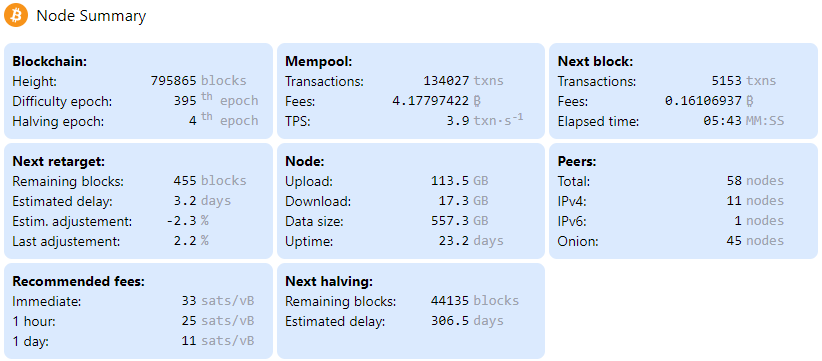
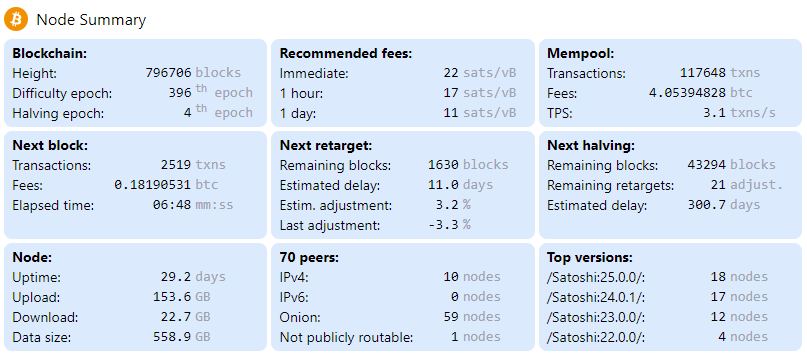
Modified displayed data
- added remaining retargets to next halving card
- added not_publicly_routable to peers card
- moved recommended fees and next halving cards
- added peers versions card

Changed region(s): [[0.0, 0.0, 1.0, 1.0]]

diff --git a/lib/load-summary.js b/lib/load-summary.js
@@ -5,7 +5,9 @@ const fs = require('fs/promises')
 
 const difficultyAdjustmentBlockCount = 2016
 const targetBlockTimeSeconds = 600
-const targetBlocksPerDay = 144 // 24 hours, 6 blocks per hour
+// 24 hours, 6 blocks per hour
+const targetBlocksPerDay = 144
+// Remark: this isn't a multiple of 2016
 const halvingBlockCount = 210000
 
 // Call one specific Bitcoin RPC endpoint
@@ -83,6 +85,10 @@ async function loadSummaryCached() {
                     const onion = rpcResult.filter(i => i.network == "onion").length
                     const not_publicly_routable = rpcResult.filter(i => i.network == "not_publicly_routable").length
                     res.peers = {total, ipv4, ipv6, onion, not_publicly_routable}
+                    let sub_versions = rpcResult.reduce((h, p) => {h[p.subver] = (h[p.subver] ?? 0) + 1; return h;}, {})
+                    sub_versions = Object.entries(sub_versions)
+                    sub_versions.sort((a, b) => b[1] - a[1])
+                    res.sub_versions = sub_versions
                     break
                 case "getblocktemplate":
                     const fees = rpcResult.transactions.reduce((t, i) => t + i.fee, 0)/1E8
@@ -119,6 +125,7 @@ async function loadSummaryCached() {
             rpcResult = rpcResult.result
             switch (method) {
                 case "getblock":
+                    res.time = rpcResult.time
                     res.time_since_last_bloc = Math.round(Date.now()/1000) - rpcResult.time
                     break
                 case "getblockhash":
@@ -161,32 +168,41 @@ async function loadSummaryCached() {
                     // console.debug(rpcResult)
             }
         }
-        let blockCount = res.headers - diffEpochFirstBlockHeight
+        const blocksSinceRetarget = res.headers - diffEpochFirstBlockHeight
         let diffAdjPercent = 0
-        if (blockCount != 0) {
-            const dt = new Date().getTime() / 1000 - res.diff_epoch_first_block_time;
-            const predictedBlockCount = dt / targetBlockTimeSeconds;
-            let blockRatioPercent = 100 * (blockCount / predictedBlockCount);
+        let uncappedBlockRatio = 1
+        if (blocksSinceRetarget != 0) {
+            const dt = res.time - res.diff_epoch_first_block_time
+            const predictedBlockCount = dt / targetBlockTimeSeconds
+            uncappedBlockRatio = blocksSinceRetarget / predictedBlockCount
+            let blockRatioPercent = 100 * uncappedBlockRatio
             if (blockRatioPercent > 400) {
-                blockRatioPercent = 400;
+                blockRatioPercent = 400
             }
             if (blockRatioPercent < 25) {
-                blockRatioPercent = 25;
+                blockRatioPercent = 25
             }
-            diffAdjPercent = precision3(blockRatioPercent - 100);
+            diffAdjPercent = precision3(blockRatioPercent - 100)
         }
-        const blocksToRetarget = difficultyAdjustmentBlockCount - blockCount
-        const daysToRetarget = precision3(blocksToRetarget/targetBlocksPerDay)
-        const halving_epoch_first_block_height = halvingBlockCount * (res.halving_epoch - 1)
-        blockCount = res.headers - halving_epoch_first_block_height
-        const blocksToHalving = halvingBlockCount - blockCount
+        const blocksToRetarget = difficultyAdjustmentBlockCount - blocksSinceRetarget
+        const daysToRetarget = precision3(blocksToRetarget/targetBlocksPerDay/uncappedBlockRatio)
+        const halvingFirstBlockHeight = halvingBlockCount * (res.halving_epoch - 1)
+        // From 0 to 209999
+        const blocksSinceHalving = res.headers - halvingFirstBlockHeight
+        // From 210000 to 1
+        const blocksToHalving = halvingBlockCount - blocksSinceHalving
+        const nextHalvingFirstBlockHeight = halvingBlockCount * res.halving_epoch
+        const retargetBeforeNextHalvingHeight = Math.floor(nextHalvingFirstBlockHeight / difficultyAdjustmentBlockCount) * difficultyAdjustmentBlockCount
+        const nextRetargetHeight = res.headers + blocksToRetarget
+        // From 104 to 0 (remark: next retarget can occur after the halving)
+        const retargetsToHalving = 1 + (retargetBeforeNextHalvingHeight - nextRetargetHeight) / difficultyAdjustmentBlockCount
         const daysToHalving = precision3(blocksToHalving/targetBlocksPerDay)
         const prevDiffAdj = (res.diff_epoch_first_block_difficulty - res.prev_diff_epoch_last_block_difficulty)
         const prevDiffAdjPercent = precision3(prevDiffAdj / res.prev_diff_epoch_last_block_difficulty * 100)
         res = {
             ...res, prev_diff_adj_percent: prevDiffAdjPercent,
             next_retarget: {blocks: blocksToRetarget, days: daysToRetarget, estimated_diff_adj_percent: diffAdjPercent},
-            next_halving: {blocks: blocksToHalving, days: daysToHalving}
+            next_halving: {blocks: blocksToHalving, retargets: retargetsToHalving, days: daysToHalving}
         }
         delete res.bestblockhash
         delete res.diff_epoch_first_block_hash
@@ -194,6 +210,7 @@ async function loadSummaryCached() {
         delete res.diff_epoch_first_block_difficulty
         delete res.prev_diff_epoch_last_block_hash
         delete res.prev_diff_epoch_last_block_difficulty
+        delete res.time
         res.revalidate=process.env.REVALIDATE
         return res
     } catch (err) {

diff --git a/app/cards.js b/app/cards.js
@@ -35,7 +35,7 @@ function formatSeconds(totalSeconds) {
     .filter((v, i) => v > 0 || i > 0)
     .map(v => v.toString().padStart(2, '0'))
     .join(':')
-  return [res, hours > 0 ? "HH:MM:SS" : "MM:SS"]
+  return [res, hours > 0 ? "hh:mm:ss" : "mm:ss"]
 }
 
 // Format bitcoin amount to exactly 8 digits precision
@@ -47,7 +47,7 @@ function formatBitcoinAmount(amount) {
     dotPosition = res.length - 1
   }
   res = res.padEnd(dotPosition + 8 + 1, '0')
-  return [res, "₿"]
+  return [res, "btc"]
 }
 
 function formatFee(fee) {
@@ -55,20 +55,24 @@ function formatFee(fee) {
 }
 
 function formatRate(rate) {
-  return rate === undefined ? undefined : [digitPrecision(rate), <div key="1">txn·s<sup>-1</sup></div>]
+  return rate === undefined ? undefined : [digitPrecision(rate), "txns/s"]
 }
 
-function formatBlocks(fee) {
-  return [fee, "blocks"]
+function formatBlocks(val) {
+  return [val, "blocks"]
+}
+
+function formatRetargets(val) {
+  return [val, "adjust."]
 }
 
 // TXN is abbreviation for transactions (https://en.wikipedia.org/wiki/TXN#:~:text=TXN%2C%20abbreviation%20for%20transaction%20(disambiguation))
-function formatTransactions(fee) {
-  return [fee, "txns"]
+function formatTransactions(val) {
+  return [val, "txns"]
 }
 
-function formatPeers(fee) {
-  return [fee, "nodes"]
+function formatPeers(val) {
+  return [val, "nodes"]
 }
 
 function formatEpoch(epoch) {
@@ -85,6 +89,11 @@ export default async function Cards({summary}) {
         {"Difficulty epoch": formatEpoch(summary.diff_epoch)},
         {"Halving epoch": formatEpoch(summary.halving_epoch)}
       ]}/>
+      <Card title={"Recommended fees"} items={[
+        {"Immediate": formatFee(summary.feerates["1"])},
+        {"1 hour": formatFee(summary.feerates["6"])},
+        {"1 day": formatFee(summary.feerates["144"])}
+      ]}/>
       <Card title={"Mempool"} items={[
         {"Transactions": formatTransactions(summary.mempool.ntx)},
         {"Fees": formatBitcoinAmount(summary.mempool.fees)},
@@ -98,29 +107,32 @@ export default async function Cards({summary}) {
       <Card title={"Next retarget"} items={[
         {"Remaining blocks": formatBlocks(summary.next_retarget.blocks)},
         {"Estimated delay": formatDays(summary.next_retarget.days)},
-        {"Estim. adjustement": formatPercent(summary.next_retarget.estimated_diff_adj_percent)},
-        {"Last adjustement": formatPercent(summary.prev_diff_adj_percent)}
-      ]}/>
-      <Card title={"Node"} items={[
-        {"Upload": formatSize(summary.totalbytessent)}, {"Download": formatSize(summary.totalbytesrecv)},
-        {"Data size": formatSize(summary.size_on_disk)}, {"Uptime": formatDays(summary.uptime_days)}
-      ]}/>
-      {/* Not publicly routable nodes are counted in the total but not are displayed apart, electrum server is one such node */}
-      <Card title={"Peers"} items={[
-        {"Total": formatPeers(summary.peers.total)},
-        {"IPv4": formatPeers(summary.peers.ipv4)},
-        {"IPv6": formatPeers(summary.peers.ipv6)},
-        {"Onion": formatPeers(summary.peers.onion)}
-      ]}/>
-      <Card title={"Recommended fees"} items={[
-        {"Immediate": formatFee(summary.feerates["1"])},
-        {"1 hour": formatFee(summary.feerates["6"])},
-        {"1 day": formatFee(summary.feerates["144"])}
+        {"Estim. adjustment": formatPercent(summary.next_retarget.estimated_diff_adj_percent)},
+        {"Last adjustment": formatPercent(summary.prev_diff_adj_percent)}
       ]}/>
       <Card title={"Next halving"} items={[
         {"Remaining blocks": formatBlocks(summary.next_halving.blocks)},
+        {"Remaining retargets": formatRetargets(summary.next_halving.retargets)},
         {"Estimated delay": formatDays(summary.next_halving.days)}
       ]}/>
+      <Card title={"Node"} items={[
+        {"Uptime": formatDays(summary.uptime_days)},
+        {"Upload": formatSize(summary.totalbytessent)},
+        {"Download": formatSize(summary.totalbytesrecv)},
+        {"Data size": formatSize(summary.size_on_disk)}
+      ]}/>
+      <Card title={`${summary.peers.total} peers`} items={[
+        {"IPv4": formatPeers(summary.peers.ipv4)},
+        {"IPv6": formatPeers(summary.peers.ipv6)},
+        {"Onion": formatPeers(summary.peers.onion)},
+        /* Electrum server is an example of a not publicly routable node */
+        {"Not publicly routable": formatPeers(summary.peers.not_publicly_routable)}
+      ]}/>
+      <Card title={"Top versions"} items={summary.sub_versions.slice(0, 4).map(sv => {
+          let o = {}
+          o[sv[0]] = formatPeers(sv[1])
+          return o
+        })}/>
     </div>
   )
 }

diff --git a/README.md b/README.md
@@ -91,44 +91,66 @@ Get the logs with: `journalctl -S <hh:mm> -u node-summary -o cat -f`
 ```json
 {
   "feerates": {
-    "1": 83,
-    "6": 46,
-    "144": 20
+    "1": 22,
+    "6": 17,
+    "144": 11
   },
-  "uptime_days": 30.512,
-  "diff_epoch": 393,
+  "uptime_days": 29.161,
+  "diff_epoch": 396,
   "halving_epoch": 4,
-  "blocks": 791610,
-  "headers": 791610,
-  "size_on_disk": 549036107585,
-  "totalbytesrecv": 26138792282,
-  "totalbytessent": 172915725919,
+  "blocks": 796706,
+  "headers": 796706,
+  "size_on_disk": 558921305562,
+  "totalbytesrecv": 22671844123,
+  "totalbytessent": 153581916331,
   "peers": {
-    "total": 64,
+    "total": 70,
     "ipv4": 10,
     "ipv6": 0,
-    "onion": 53,
+    "onion": 59,
     "not_publicly_routable": 1
   },
+  "sub_versions": [
+    [ "/Satoshi:25.0.0/", 18 ],
+    [ "/Satoshi:24.0.1/", 17 ],
+    [ "/Satoshi:23.0.0/", 12 ],
+    [ "/Satoshi:22.0.0/", 4 ],
+    [ "/Satoshi:24.0.0/", 2 ],
+    [ "/Satoshi:0.21.0/", 2 ],
+    [ "/Satoshi:23.0.0/Knots:20220529/", 2 ],
+    [ "/bitcoinj:0.14.3/Bitcoin Wallet:4.58/", 2 ],
+    [ "/electrs:0.9.13/", 1 ],
+    [ "", 1 ],
+    [ "/Satoshi:24.0.1(Samourai Dojo 1.19.2)/", 1 ],
+    [ "/Satoshi:24.1.0/", 1 ],
+    [ "/btcwire:0.5.0/:/", 1 ],
+    [ "/Satoshi:23.0.0(RoninDojo 1.18.1)/", 1 ],
+    [ "/Satoshi:0.16.99/", 1 ],
+    [ "/bitcoinj:0.14.4/Bitcoin Wallet:5.26/", 1 ],
+    [ "/bitcoinj:0.14.5/Bitcoin Wallet:5.45/", 1 ],
+    [ "/Satoshi:0.15.0.1(No2X)/", 1 ],
+    [ "/breadwallet:0.6.8/", 1 ]
+  ],
   "template": {
-    "fees": 0.31639836,
-    "ntx": 4350
+    "fees": 0.18190531,
+    "ntx": 2519
   },
   "mempool": {
-    "fees": 15.15287524,
-    "ntx": 64817,
-    "ntx_per_second": 3.238
+    "fees": 4.05394828,
+    "ntx": 117648,
+    "ntx_per_second": 3.081
   },
-  "time_since_last_bloc": 394,
-  "prev_diff_adj_percent": 3.217,
+  "time_since_last_bloc": 408,
+  "prev_diff_adj_percent": -3.255,
   "next_retarget": {
-    "blocks": 678,
-    "days": 4.708,
-    "estimated_diff_adj_percent": 1.01
+    "blocks": 1630,
+    "days": 10.971,
+    "estimated_diff_adj_percent": 3.176
   },
   "next_halving": {
-    "blocks": 48390,
-    "days": 336.042
+    "blocks": 43294,
+    "retargets": 21,
+    "days": 300.653
   },
   "revalidate": "5"
 }
